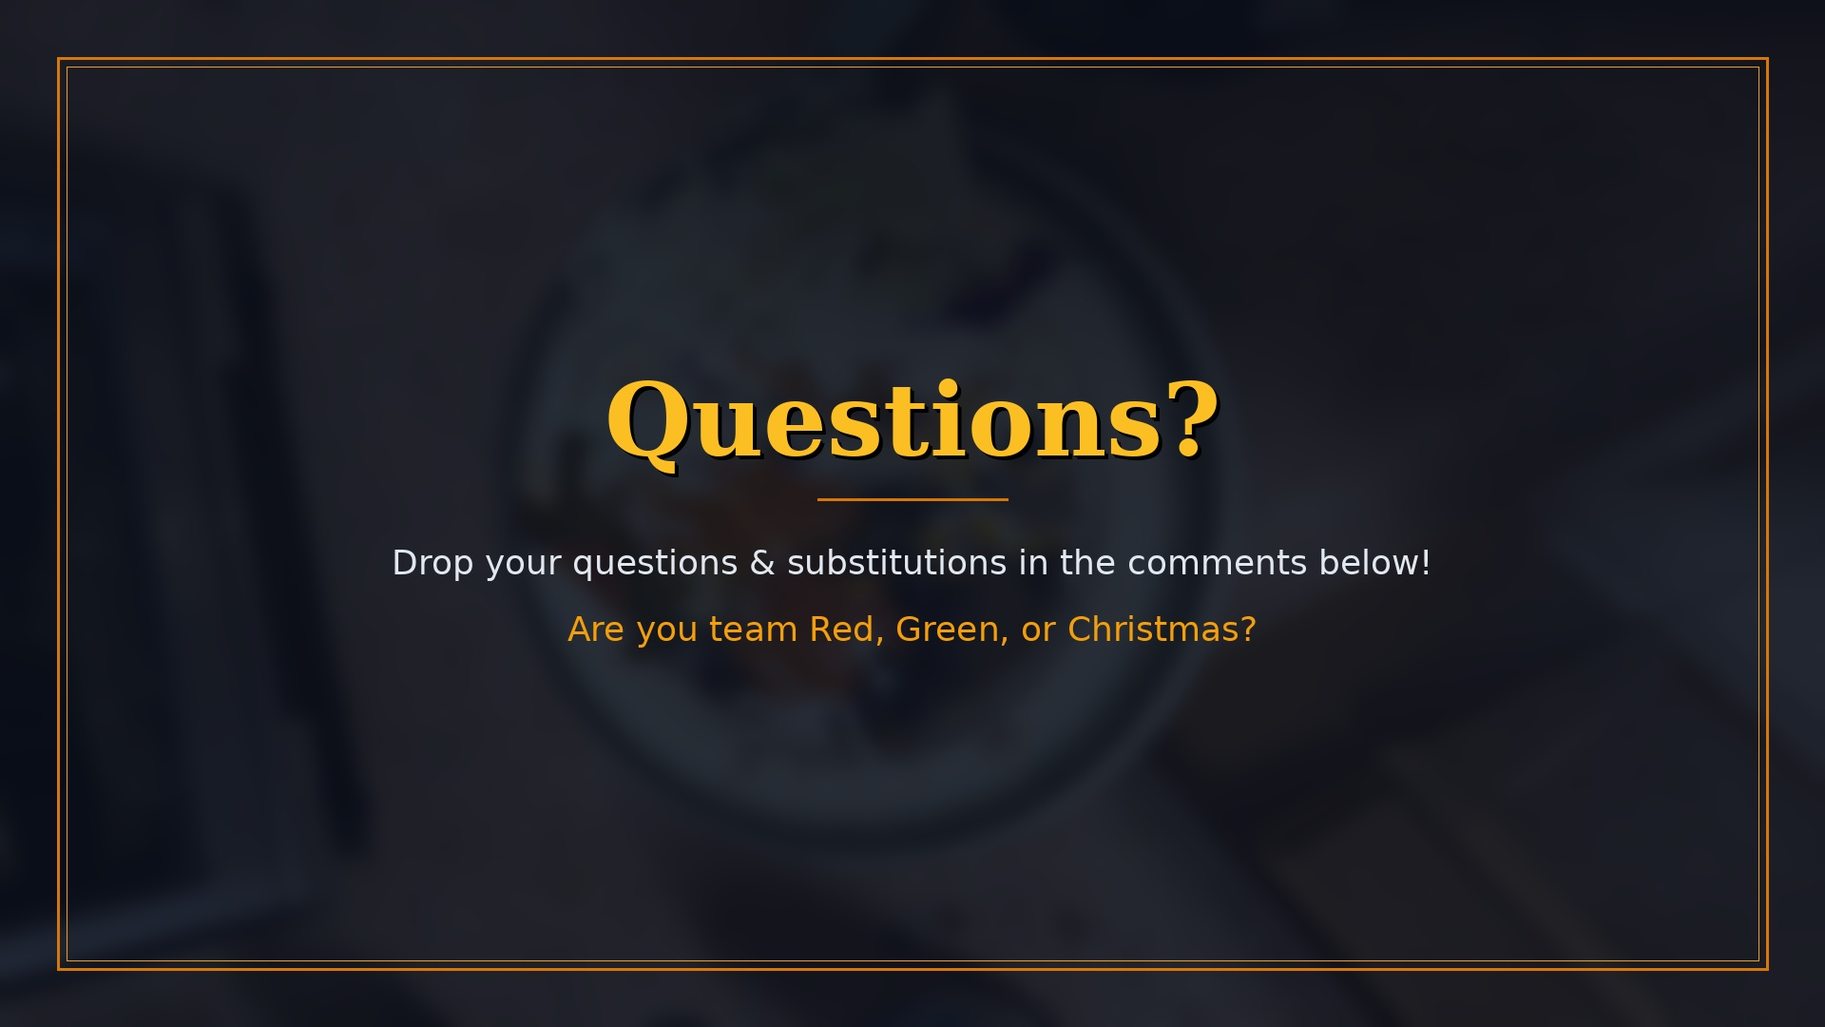
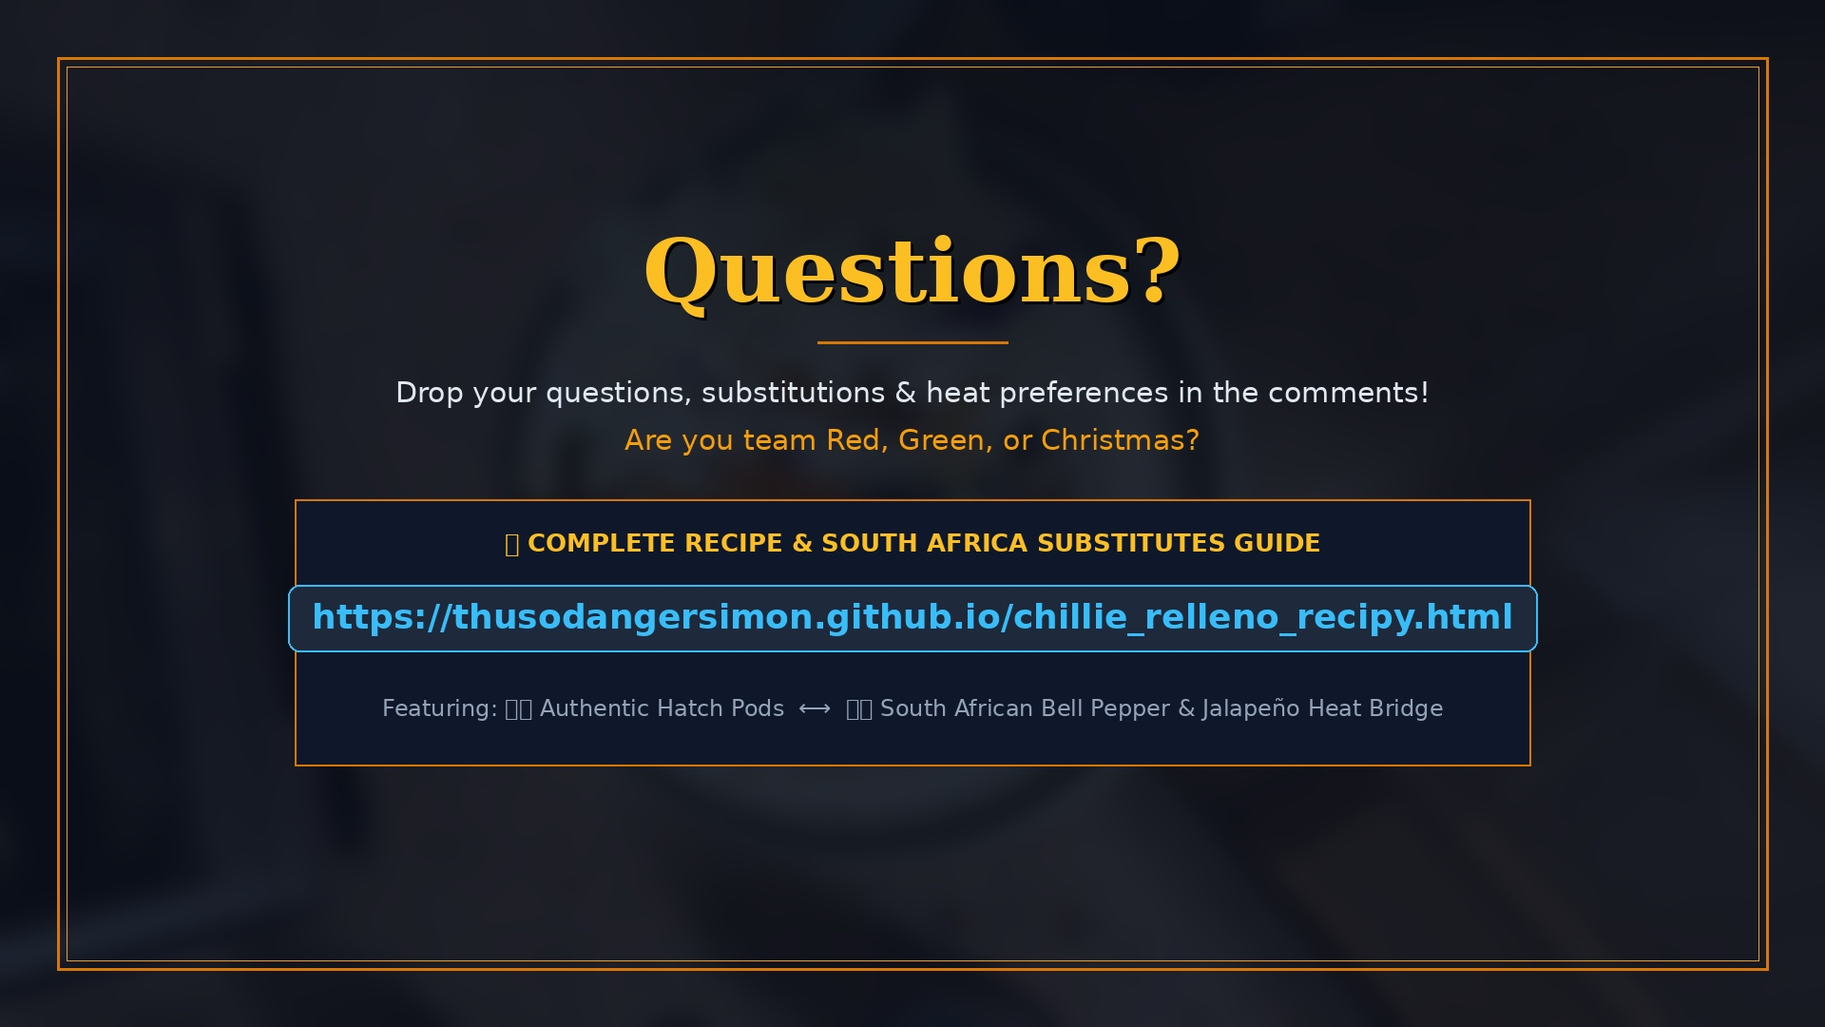
Publish chile relleno recipe companion page with interactive South African pantry toggle and update end card

diff --git a/chillie_relleno_recipy.html b/chillie_relleno_recipy.html
@@ -1,0 +1,371 @@
+<!DOCTYPE html>
+<html lang="en" class="dark">
+<head>
+  <meta charset="UTF-8">
+  <meta name="viewport" content="width=device-width, initial-scale=1.0">
+  <title>Authentic New Mexican Chile Rellenos Recipe | Global & South Africa Guide</title>
+  <script src="https://www.gstatic.com/antigravity/web/dev/tailwindcss.min.js"></script>
+  <style>
+    @import url('https://fonts.googleapis.com/css2?family=Playfair+Display:ital,wght@0,600;0,800;1,400&family=Plus+Jakarta+Sans:wght@400;500;600;700&display=swap');
+    body { font-family: 'Plus Jakarta Sans', sans-serif; }
+    h1, h2, h3, .serif-font { font-family: 'Playfair Display', Georgia, serif; }
+    .toggle-active { background-color: #f59e0b; color: #0f172a; font-weight: 700; }
+    .toggle-inactive { background-color: transparent; color: #94a3b8; }
+  </style>
+</head>
+<body class="bg-slate-950 text-slate-100 min-h-screen antialiased selection:bg-amber-500 selection:text-slate-950">
+
+  <!-- Sticky Navigation Header -->
+  <header class="border-b border-slate-800/80 bg-slate-900/90 backdrop-blur sticky top-0 z-50">
+    <div class="max-w-5xl mx-auto px-4 py-3.5 flex items-center justify-between">
+      <a href="index.html" class="flex items-center gap-2 text-sm font-semibold text-slate-200 hover:text-amber-400 transition">
+        <span>🌶</span>
+        <span class="hidden sm:inline">Chile Rellenos Project</span>
+        <span class="text-xs px-2 py-0.5 rounded bg-slate-800 text-slate-400 border border-slate-700">← Back to Storyboard</span>
+      </a>
+      <div class="flex items-center gap-3">
+        <span class="text-xs text-slate-400 hidden md:inline">Director's Companion Recipe</span>
+        <button onclick="window.print()" class="text-xs font-semibold px-3 py-1.5 rounded-lg bg-slate-800 hover:bg-slate-700 text-slate-200 border border-slate-700 transition">
+          🖨 Print Recipe
+        </button>
+      </div>
+    </div>
+  </header>
+
+  <main class="max-w-4xl mx-auto px-4 py-8 md:py-12 space-y-10">
+
+    <!-- Hero Card -->
+    <div class="relative rounded-3xl overflow-hidden border border-amber-900/40 bg-gradient-to-b from-amber-950/20 via-slate-900/60 to-slate-900 p-6 md:p-10 shadow-2xl">
+      <div class="inline-flex items-center gap-2 px-3 py-1 rounded-full text-xs font-semibold bg-amber-500/10 text-amber-400 border border-amber-500/30 mb-4">
+        <span>🌶 Hatch Valley Heritage • Crisp Soufflé Egg Batter</span>
+      </div>
+      <h1 class="text-3xl md:text-5xl font-extrabold text-white tracking-tight leading-tight">
+        How to Cook <span class="text-amber-400 italic">NM Style</span> Chile Rellenos
+      </h1>
+      <p class="text-slate-300 text-base md:text-lg mt-3 max-w-2xl leading-relaxed">
+        Fire-roasted green chile pods stuffed with molten cheese, blanketed in a traditional airy egg-white soufflé cloud, fried to golden perfection, and smothered in homemade baked red sauce.
+      </p>
+
+      <!-- Key Recipe Stats -->
+      <div class="grid grid-cols-2 sm:grid-cols-4 gap-3 mt-8 pt-6 border-t border-slate-800/80">
+        <div class="bg-slate-950/60 p-3.5 rounded-xl border border-slate-800 text-center">
+          <span class="text-xs text-slate-400 block font-medium">Prep Time</span>
+          <span class="text-lg font-bold text-white">35 mins</span>
+        </div>
+        <div class="bg-slate-950/60 p-3.5 rounded-xl border border-slate-800 text-center">
+          <span class="text-xs text-slate-400 block font-medium">Cook Time</span>
+          <span class="text-lg font-bold text-white">25 mins</span>
+        </div>
+        <div class="bg-slate-950/60 p-3.5 rounded-xl border border-slate-800 text-center">
+          <span class="text-xs text-slate-400 block font-medium">Yield</span>
+          <span class="text-lg font-bold text-white">6 Rellenos</span>
+        </div>
+        <div class="bg-slate-950/60 p-3.5 rounded-xl border border-slate-800 text-center">
+          <span class="text-xs text-slate-400 block font-medium">Heat Level</span>
+          <span class="text-lg font-bold text-amber-400" id="heat-badge">Medium (1.5k SHU)</span>
+        </div>
+      </div>
+    </div>
+
+    <!-- Interactive Location & Substitute Switcher -->
+    <section class="bg-slate-900 border-2 border-amber-600/40 rounded-2xl p-5 md:p-6 shadow-xl relative">
+      <div class="flex flex-col md:flex-row md:items-center justify-between gap-4">
+        <div>
+          <span class="text-xs font-bold uppercase tracking-wider text-amber-400 block mb-1">Interactive Pantry Mode</span>
+          <h2 class="text-lg md:text-xl font-bold text-white">Choose Your Ingredients Location</h2>
+          <p class="text-xs md:text-sm text-slate-400 mt-0.5">Toggle between authentic Southwestern pantry or grocery substitutes available in South Africa (Pick n Pay, Checkers, Spar).</p>
+        </div>
+
+        <!-- Toggle Switch Pills -->
+        <div class="inline-flex rounded-xl bg-slate-950 p-1.5 border border-slate-800 self-start md:self-auto shadow-inner">
+          <button id="btn-nm" onclick="setMode('nm')" class="px-4 py-2 rounded-lg text-xs md:text-sm font-semibold transition flex items-center gap-2 toggle-active">
+            <span>🇺🇸</span>
+            <span>Authentic NM</span>
+          </button>
+          <button id="btn-sa" onclick="setMode('sa')" class="px-4 py-2 rounded-lg text-xs md:text-sm font-semibold transition flex items-center gap-2 toggle-inactive">
+            <span>🇿🇦</span>
+            <span>South Africa Hack</span>
+          </button>
+        </div>
+      </div>
+
+      <!-- Live Substitute Notice Banner -->
+      <div id="sa-explainer" class="hidden mt-4 pt-4 border-t border-slate-800/80 bg-amber-950/20 p-4 rounded-xl border border-amber-600/30 text-xs md:text-sm leading-relaxed text-amber-200">
+        <strong>🇿🇦 The South African Produce Solution:</strong> Local supermarkets do not carry New Mexican Hatch chiles. You'll only find sweet green bell peppers (0 heat), jalapeños (2,500–5,000 Scoville), and African bird's eye chillies (100,000+ Scoville — far too spicy to stuff). 
+        <br><br>
+        <span class="font-semibold text-white">The Proven Hack:</span> Char sweet green bell peppers directly over hot braai coals or your stovetop burner as the stuffing pod. Roast 1 jalapeño, slice into thin matchsticks, and tuck a sliver inside each pepper with South African young Gouda. This perfectly mimics the Hatch mild-to-medium heat profile!
+      </div>
+    </section>
+
+    <!-- Ingredients Checklist -->
+    <section class="bg-slate-900/90 border border-slate-800 rounded-2xl p-6 md:p-8 space-y-6">
+      <div class="flex items-center justify-between border-b border-slate-800 pb-4">
+        <div>
+          <h2 class="text-2xl font-bold text-white">Ingredients Checklist</h2>
+          <p class="text-xs text-slate-400 mt-1">Quantities for 6 stuffed chile rellenos with rice and homemade red sauce</p>
+        </div>
+        <span class="text-xs font-mono text-emerald-400 bg-emerald-950/60 border border-emerald-800/50 px-3 py-1 rounded-full" id="ingredients-region-badge">
+          🇺🇸 Hatch, New Mexico Pantry
+        </span>
+      </div>
+
+      <div class="grid grid-cols-1 md:grid-cols-2 gap-6">
+        <!-- Chiles & Filling -->
+        <div class="space-y-3">
+          <h3 class="text-sm font-bold text-amber-400 uppercase tracking-wider">1. The Chiles & Filling</h3>
+          <ul class="space-y-2.5 text-sm" id="list-chiles">
+            <!-- Dynamic items populated by JS -->
+          </ul>
+        </div>
+
+        <!-- Souffle Batter & Frying -->
+        <div class="space-y-3">
+          <h3 class="text-sm font-bold text-amber-400 uppercase tracking-wider">2. Authentic Soufflé Cloud Batter</h3>
+          <ul class="space-y-2.5 text-sm" id="list-batter">
+            <!-- Dynamic items populated by JS -->
+          </ul>
+        </div>
+
+        <!-- Homemade Red Sauce -->
+        <div class="space-y-3">
+          <h3 class="text-sm font-bold text-amber-400 uppercase tracking-wider">3. Homemade Baked Red Sauce</h3>
+          <ul class="space-y-2.5 text-sm" id="list-sauce">
+            <!-- Dynamic items populated by JS -->
+          </ul>
+        </div>
+
+        <!-- Spanish Rice Side -->
+        <div class="space-y-3">
+          <h3 class="text-sm font-bold text-amber-400 uppercase tracking-wider">4. Mexican Back-Burner Rice</h3>
+          <ul class="space-y-2.5 text-sm" id="list-rice">
+            <!-- Dynamic items populated by JS -->
+          </ul>
+        </div>
+      </div>
+    </section>
+
+    <!-- Step-by-Step Instructions -->
+    <section class="space-y-6">
+      <div class="border-b border-slate-800 pb-3">
+        <h2 class="text-2xl md:text-3xl font-bold text-white">Step-by-Step Cooking Method</h2>
+        <p class="text-sm text-slate-400 mt-1">Follow each step in synchronization with the documentary video</p>
+      </div>
+
+      <!-- Step 1 -->
+      <div class="bg-slate-900 border border-slate-800 rounded-2xl p-6 space-y-3">
+        <div class="flex items-center gap-3">
+          <span class="w-8 h-8 rounded-full bg-amber-500 text-slate-950 font-bold flex items-center justify-center text-sm">1</span>
+          <h3 class="text-lg font-bold text-white">Roast and Sweat the Chiles</h3>
+        </div>
+        <p class="text-slate-300 text-sm leading-relaxed" id="step-roast">
+          Roast whole Hatch green chiles over high open flame or propane roaster tumbler until the skin blisters completely black and separates. Immediately transfer the hot pods into a plastic bag or covered bowl to steam for 15–20 minutes. The trapped steam loosens the skin so it slides off effortlessly.
+        </p>
+      </div>
+
+      <!-- Step 2 -->
+      <div class="bg-slate-900 border border-slate-800 rounded-2xl p-6 space-y-3">
+        <div class="flex items-center gap-3">
+          <span class="w-8 h-8 rounded-full bg-amber-500 text-slate-950 font-bold flex items-center justify-center text-sm">2</span>
+          <h3 class="text-lg font-bold text-white">Peel, Slit & Stuff (Stem Intact)</h3>
+        </div>
+        <p class="text-slate-300 text-sm leading-relaxed" id="step-stuff">
+          Gently slide the charred skin off with your fingers—do not rinse under water, which washes away the smoky essential oils! Leave the stem attached as a dipping handle. Cut a clean 2-inch slit down the belly and gently scrape out the placenta and seeds. Insert thick spears of Asadero cheese. Pinch the seam closed.
+        </p>
+      </div>
+
+      <!-- Step 3 -->
+      <div class="bg-slate-900 border border-slate-800 rounded-2xl p-6 space-y-3">
+        <div class="flex items-center gap-3">
+          <span class="w-8 h-8 rounded-full bg-amber-500 text-slate-950 font-bold flex items-center justify-center text-sm">3</span>
+          <h3 class="text-lg font-bold text-white">Simmer & Blend the Red Sauce</h3>
+        </div>
+        <p class="text-slate-300 text-sm leading-relaxed" id="step-sauce">
+          Husk fresh green tomatillos and rinse the sticky residue. In a skillet, combine halved tomatillos, oven-baked dried red chile pods, garlic, cumin, and chicken broth. Simmer for 10 minutes until tomatillos soften. Transfer to a blender and puree until velvety smooth. Return to the pan and keep warm.
+        </p>
+      </div>
+
+      <!-- Step 4 -->
+      <div class="bg-slate-900 border border-slate-800 rounded-2xl p-6 space-y-3">
+        <div class="flex items-center gap-3">
+          <span class="w-8 h-8 rounded-full bg-amber-500 text-slate-950 font-bold flex items-center justify-center text-sm">4</span>
+          <h3 class="text-lg font-bold text-white">Whip the Soufflé Cloud Batter</h3>
+        </div>
+        <p class="text-slate-300 text-sm leading-relaxed">
+          Separate 4 large eggs. In a spotless glass or copper bowl, beat egg whites with 1/4 tsp salt until stiff, glossy peaks form. In a separate bowl, lightly whisk the yolks. Gently fold the yolks into the whipped whites with a silicone spatula in slow figure-eight motions, preserving the airy trapped bubbles.
+        </p>
+      </div>
+
+      <!-- Step 5 -->
+      <div class="bg-slate-900 border border-slate-800 rounded-2xl p-6 space-y-3">
+        <div class="flex items-center gap-3">
+          <span class="w-8 h-8 rounded-full bg-amber-500 text-slate-950 font-bold flex items-center justify-center text-sm">5</span>
+          <h3 class="text-lg font-bold text-white">Dredge, Coat & Pan-Fry at 375°F (190°C)</h3>
+        </div>
+        <p class="text-slate-300 text-sm leading-relaxed">
+          Heat 1.5 inches of neutral frying oil to 375°F (190°C). Lightly dust each stuffed chile in seasoned all-purpose flour (this gives the batter traction). Holding the stem handle, lower into the egg cloud batter until completely encased, then transfer directly into hot oil. Fry for 2 minutes per side until puffed and golden brown. Drain on paper towels.
+        </p>
+      </div>
+
+      <!-- Step 6 -->
+      <div class="bg-slate-900 border border-slate-800 rounded-2xl p-6 space-y-3">
+        <div class="flex items-center gap-3">
+          <span class="w-8 h-8 rounded-full bg-amber-500 text-slate-950 font-bold flex items-center justify-center text-sm">6</span>
+          <h3 class="text-lg font-bold text-white">Plating & Grand Cheese Pull</h3>
+        </div>
+        <p class="text-slate-300 text-sm leading-relaxed">
+          Pool a generous ladle of warm homemade red sauce across the plate. Lay two golden rellenos on top. Spoon additional red sauce across the center, leaving the crispy ends visible. Serve with fresh Mexican rice, pinto beans, and a sprinkle of cheese. Cut through the center for that epic molten cheese stretch!
+        </p>
+      </div>
+    </section>
+
+    <!-- FAQ & Pro-Tips Section -->
+    <section class="bg-slate-900 border border-slate-800 rounded-2xl p-6 md:p-8 space-y-4">
+      <h2 class="text-xl font-bold text-white">Common Questions & Pro Tips</h2>
+      <div class="space-y-3 text-sm text-slate-300">
+        <div class="border-b border-slate-800/80 pb-3">
+          <span class="font-semibold text-amber-400">Q: Why did my batter slide off in the oil?</span>
+          <p class="text-slate-400 mt-1">The chile pods were either too wet or you skipped the flour dusting. Pat the chiles completely dry with paper towels, and dust with flour right before dipping into the egg cloud.</p>
+        </div>
+        <div class="border-b border-slate-800/80 pb-3">
+          <span class="font-semibold text-amber-400">Q: Can I bake them instead of frying?</span>
+          <p class="text-slate-400 mt-1">Authentic New Mexican rellenos require hot oil to flash-cook the delicate egg white soufflé before it deflates. If you want oven finish, fry them for 90 seconds to set the crust, then transfer to a 375°F (190°C) oven for 5 minutes to melt the cheese.</p>
+        </div>
+        <div>
+          <span class="font-semibold text-amber-400">Q: What is "Christmas Style"?</span>
+          <p class="text-slate-400 mt-1">In New Mexico, when your server asks "Red or Green?", asking for "Christmas" means you get half your plate smothered in red chile sauce and the other half in green chile sauce!</p>
+        </div>
+      </div>
+    </section>
+
+    <!-- Back to Storyboard CTA -->
+    <div class="text-center py-6">
+      <a href="index.html" class="inline-flex items-center gap-2 px-6 py-3 rounded-xl bg-amber-500 hover:bg-amber-400 text-slate-950 font-bold transition shadow-lg shadow-amber-500/10">
+        <span>🎬</span>
+        <span>View Full Interactive Video Storyboard</span>
+        <span>→</span>
+      </a>
+    </div>
+
+  </main>
+
+  <footer class="border-t border-slate-800 bg-slate-950 py-6 text-center text-xs text-slate-500">
+    Crafted for Thuso Simon's New Mexican Cooking Masterclass • Hosted on GitHub Pages
+  </footer>
+
+  <script>
+    const PANTRY = {
+      nm: {
+        badge: "🇺🇸 Hatch, New Mexico Pantry",
+        heat: "Medium (1,500–2,500 SHU)",
+        chiles: [
+          "6 large fresh Hatch Green Chile pods (Big Jim or Sandia variety)",
+          "8 oz (225g) Asadero, Queso Quesadilla, or Monterey Jack cheese, sliced in 1/2-inch spears",
+          "Toothpicks (optional, to pin seam closed)"
+        ],
+        batter: [
+          "4 large eggs, whites and yolks separated",
+          "1/2 cup all-purpose flour (for dredging)",
+          "1/4 tsp kosher salt",
+          "Neutral oil for frying (Canola, Vegetable, or Avocado oil)"
+        ],
+        sauce: [
+          "6 fresh green tomatillos, husked and washed",
+          "4 dried Hatch red chile pods (stems removed)",
+          "2 cloves garlic, peeled",
+          "1 cup chicken broth or bone broth",
+          "1/2 tsp ground cumin & Mexican oregano",
+          "Salt to taste"
+        ],
+        rice: [
+          "1 cup long-grain white rice",
+          "2 tbsp vegetable oil",
+          "2 cups chicken broth",
+          "1/2 cup tomato sauce (or puree)",
+          "1/2 tsp garlic powder & Knorr Caldo de Pollo"
+        ],
+        stepRoast: "Roast whole Hatch green chiles over high open flame or propane roaster tumbler until the skin blisters completely black and separates. Immediately transfer the hot pods into a plastic bag or covered bowl to steam for 15–20 minutes. The trapped steam loosens the skin so it slides off effortlessly.",
+        stepStuff: "Gently slide the charred skin off with your fingers—do not rinse under water, which washes away the smoky essential oils! Leave the stem attached as a dipping handle. Cut a clean 2-inch slit down the belly and gently scrape out the placenta and seeds. Insert thick spears of Asadero cheese. Pinch the seam closed.",
+        stepSauce: "Husk fresh green tomatillos and rinse the sticky residue. In a skillet, combine halved tomatillos, oven-baked dried red chile pods, garlic, cumin, and chicken broth. Simmer for 10 minutes until tomatillos soften. Transfer to a blender and puree until velvety smooth. Return to the pan and keep warm."
+      },
+      sa: {
+        badge: "🇿🇦 South African Supermarket Hack (Pick n Pay / Checkers)",
+        heat: "Custom Heat Bridge (~2,000 SHU)",
+        chiles: [
+          "6 medium green sweet bell peppers (stout, flat-bottomed for stuffing)",
+          "1–2 fresh green jalapeños (roasted, deseeded, and sliced into thin matchsticks)",
+          "250g South African young Gouda or mature Cheddar, sliced into thick fingers",
+          "Toothpicks to pin seam closed"
+        ],
+        batter: [
+          "4 large free-range eggs, whites and yolks separated",
+          "1/2 cup Snowflake Cake Wheat Flour (or Maizena for light dusting)",
+          "1/4 tsp fine table salt",
+          "Sunflower oil or canola oil for shallow frying"
+        ],
+        sauce: [
+          "1 tin (400g) Rhodes chopped peeled tomatoes (or 4 fresh green tomatoes for tartness)",
+          "2 tbsp Robertsons mild Spanish paprika or smoked pimentón",
+          "1 tbsp butter + 1 tbsp flour (classic Northern NM Roux method)",
+          "1 cup Ina Paarman chicken stock",
+          "1 tsp crushed garlic & dried mixed herbs"
+        ],
+        rice: [
+          "1 cup Tastic long-grain white rice",
+          "2 tbsp sunflower oil",
+          "2 cups Knorr chicken stock",
+          "3 tbsp All Gold tomato paste",
+          "1/2 tsp Robertson garlic salt & onion powder"
+        ],
+        stepRoast: "Place whole green bell peppers and 1 whole jalapeño directly over glowing braai coals or directly over high gas burner flame on your stove. Turn frequently until the waxy skin blisters black all over. Place into a sealed plastic bag or bowl covered with clingwrap for 15 minutes to sweat.",
+        stepStuff: "Peel off the charred pepper skins gently. Keep the green pepper stem attached. Make a lengthwise slit down one side and remove seeds. Tuck 1 sliver of roasted jalapeño (the 'heat bridge') next to a thick finger of South African Gouda cheese inside each pepper. Pin with a toothpick if necessary.",
+        stepSauce: "In a saucepan, melt 1 tbsp butter, whisk in 1 tbsp flour to form a golden roux. Whisk in 2 tbsp Robertsons mild paprika and 1 cup Ina Paarman chicken stock until thickened. Stir in chopped tomatoes and garlic, simmer for 10 minutes, and blend until silky smooth."
+      }
+    };
+
+    function setMode(mode) {
+      const data = PANTRY[mode];
+      document.getElementById('ingredients-region-badge').innerText = data.badge;
+      document.getElementById('heat-badge').innerText = data.heat;
+
+      // Toggle buttons
+      const btnNm = document.getElementById('btn-nm');
+      const btnSa = document.getElementById('btn-sa');
+      const saExplainer = document.getElementById('sa-explainer');
+
+      if (mode === 'sa') {
+        btnSa.className = "px-4 py-2 rounded-lg text-xs md:text-sm font-semibold transition flex items-center gap-2 toggle-active";
+        btnNm.className = "px-4 py-2 rounded-lg text-xs md:text-sm font-semibold transition flex items-center gap-2 toggle-inactive";
+        saExplainer.classList.remove('hidden');
+      } else {
+        btnNm.className = "px-4 py-2 rounded-lg text-xs md:text-sm font-semibold transition flex items-center gap-2 toggle-active";
+        btnSa.className = "px-4 py-2 rounded-lg text-xs md:text-sm font-semibold transition flex items-center gap-2 toggle-inactive";
+        saExplainer.classList.add('hidden');
+      }
+
+      // Populate Lists
+      populateList('list-chiles', data.chiles);
+      populateList('list-batter', data.batter);
+      populateList('list-sauce', data.sauce);
+      populateList('list-rice', data.rice);
+
+      // Populate Steps
+      document.getElementById('step-roast').innerText = data.stepRoast;
+      document.getElementById('step-stuff').innerText = data.stepStuff;
+      document.getElementById('step-sauce').innerText = data.stepSauce;
+    }
+
+    function populateList(elementId, items) {
+      const el = document.getElementById(elementId);
+      el.innerHTML = items.map(item => `
+        <li class="flex items-start gap-2.5">
+          <span class="text-amber-500 font-bold mt-0.5">•</span>
+          <span class="text-slate-200">${item}</span>
+        </li>
+      `).join('');
+    }
+
+    // Initialize with NM mode
+    setMode('nm');
+  </script>
+</body>
+</html>
